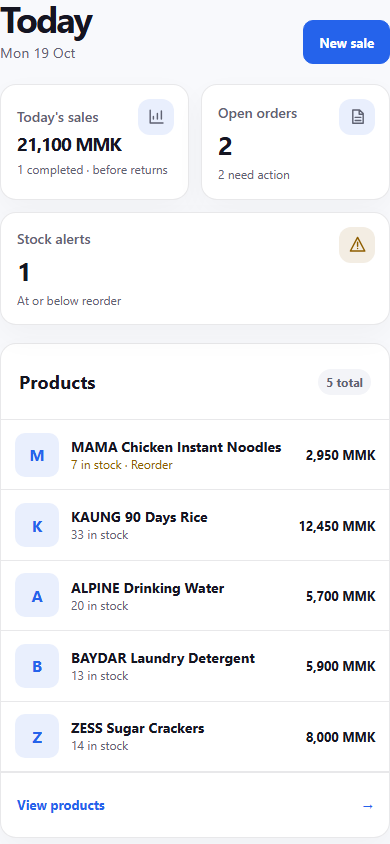
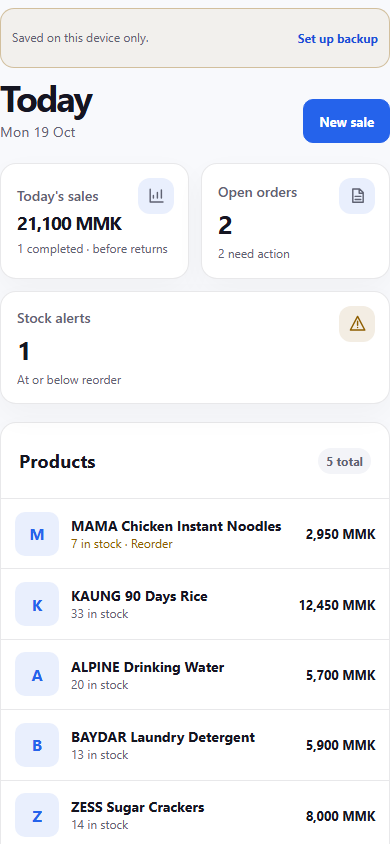
Refresh Shop gallery and launch gate evidence

diff --git a/docs/SHOP-FIRST-LAUNCH-GATE-2026-10-19.md b/docs/SHOP-FIRST-LAUNCH-GATE-2026-10-19.md
@@ -1,14 +1,14 @@
-# Shop-first launch gate — 19 October 2026 (updated 14:08 UTC)
+# Shop-first launch gate — 19 October 2026 (updated 14:29 UTC)
 
-**Decision: NO-GO.** PR #682 is open at head `197b83ebc70bc805e50f4b99e9bf365f435b15a1`. The local PR #683 candidate is `c86a26bd614e8ad5447b9f7b609973cafb43853a`, stacked on #682; it has not yet received exact-head remote CI. Local Shop/public-boundary tests, app typecheck, and the complete public-site prebuilt verification pass. Customer-managed access remains Shop-only; Sites and Commerce stay internal. Production release, customer access, and commercial activity remain separate owner gates.
+**Decision: NO-GO.** PR #682 is open at head `197b83ebc70bc805e50f4b99e9bf365f435b15a1`. The local PR #683 candidate is `6d6822138e2c409155ae174f123699bed4624b4c`, stacked on #682; this new head has not yet received exact-head remote CI. Focused Shop/public-boundary tests and app typecheck pass. The public prebuilt verifier reached its clean-worktree gate after its generated capture files changed, so a full clean-tree rerun is required before calling it a pass. Customer-managed access remains Shop-only; Sites and Commerce stay internal. Production release, customer access, and commercial activity remain separate owner gates.
 
 | Gate | Result | Current evidence |
 |---|---|---|
 | Shop-only customer scope | **PASS — local source only** | The candidate visibility manifest and its 11 product-visibility tests keep customer access limited to Shop. This does not prove hosted login or tenant isolation. |
 | Public website | **FAIL — live content is not release-ready** | A fresh 19 October read of the live [SuperMega site](https://supermega.dev/) still shows Shop, Sites, and Commerce with “illustrative records” captions. No production website update was made. |
-| Local website candidate | **PASS — local build only; not hosted** | Candidate `c86a26b` passed `npm run public:prebuilt`: 7 routes, 34 static files, 345 landing-page checks, Vercel contract tests, and the 37-step HQ verification. The generated customer homepage presents Shop only; Sites and Commerce remain internal. It is not a Vercel preview or live deployment. |
-| Product capture provenance | **PASS — source-bound candidate; not publishable** | 22 screenshots were recaptured from real product components with synthetic records and bound to showroom tree `b0308f798559a45bd16137bdc5ce3e685b0984f8`; all 22 checked-in image hashes match the capture report and provenance. The public bundle emits only the 12 Shop views across Today, Counter, Orders, and Inventory at desktop/tablet/phone sizes; the other captures remain internal review evidence. External requests denied: 0; `publicationReady=false`. |
-| Shop public-request review | **PASS — local checks; exact-head CI pending** | Public requests appear in Shop without being claimed. **Review order** explicitly claims one request. Polling omits contact details; per-order disclosure loads contact on demand for active and closed orders. Observed-request IDs and retry cursors are keyed by workspace identity. The focused suite passes 73 tests, public-boundary tests pass 14, and app typecheck passes locally. |
+| Local website candidate | **PARTIAL — generated pages passed; clean-tree verifier rerun required** | Candidate `6d68221` built all 7 routes and passed the 345 landing-page checks, gallery checks, and Vercel contract tests. `npm run public:prebuilt` then stopped because the launch gate correctly requires a clean worktree; generated capture evidence was still uncommitted. The complete command must pass after the evidence commit. This is not a Vercel preview or live deployment. |
+| Product capture provenance | **PASS — source-bound local evidence; not publishable** | 22 screenshots were recaptured from real product components with synthetic records and bound to source commit `6d6822138e2c409155ae174f123699bed4624b4c` and showroom tree `ac51cab4bfa126b29b10c03a292b2c9aa762ad30`; all capture and provenance hashes match. The public bundle emits only the 12 Shop views across Today, Counter, Orders, and Inventory at desktop/tablet/phone sizes; the other captures remain internal review evidence. External requests denied: 0; `publicationReady=false`. |
+| Shop public-request review | **PASS — local checks; exact-head CI pending** | Public requests appear in Shop without being claimed. **Review order** explicitly claims one request. Polling omits contact details; per-order disclosure loads contact on demand for active and closed orders, then hides and invalidates it when access is revoked. Observed-request IDs and retry cursors are keyed by workspace identity. The focused Shop inbox/storage suites pass 74 tests, public-boundary tests pass 14, and app typecheck passes locally. A denied persistent-storage request retains the concise backup action on Shop workspaces. |
 | Shop payment and fulfilment semantics | **PASS — local source and capture; exact-head CI pending** | Payment-due status is separate from a delivery promise. The two-line product-name clamp is represented in freshly captured desktop, tablet, and phone screens. Hardware payment settlement remains unproven. |
 | Multi-product acceptance approvals | **PASS — prior exact-head CI and local checks** | Commit `4681f10` gives each product a distinct approval ID and keeps product approvals separate from activation approval. Verifier self-test (14 checks), launch-proof tests (4/4), Shop/runtime acceptance test, and prior exact-head CI pass. No hosted acceptance write was run. |
 | Full English / Burmese experience | **FAIL — incomplete** | Fresh `node tools/audit_shop_locale_surface.mjs` reports `coverageComplete=false`, 1,168 raw English fragments (930 unique) across six Shop source files. This static inventory is not a complete rendered-language audit. |
@@ -17,13 +17,13 @@
 | Supabase security configuration | **WARN — remediation required before managed pilot** | Preview advisors report leaked-password protection disabled, two RLS-enabled billing tables with no policies (default deny), and four Sites policies with avoidable per-row setting evaluation. No Supabase settings or migrations were changed in this check. |
 | Shop barcode scanner / receipt printer | **PARTIAL — software boundary only** | The current scanner/receipt boundary suite passes 159 checks, including multiple visible labels and CODE128. No named physical scanner, printer, paper, or Myanmar-font test is bound to this candidate. |
 | Paid-VPS agents | **NOT RUN — access evidence incomplete** | Current network check reaches RDP port 3389; SSH port 22 is closed. No authenticated VPS desktop, worker installation, heartbeat, or isolated job completion was verified. The local company coordinator reports `localOnly=true`, zero running/queued work, and is not VPS evidence. Local Ollama/inference is not used as a hosted-readiness substitute. |
-| Exact-head CI and security | **PENDING on local candidate `c86a26bd`** | App CI run `39263744320` on prior head `a19775b9` was cancelled after review found stale gallery provenance. Its independent dependency/security and Kernel Console checks passed only on `a19775b9` and are not reused. Run the full workflow on `c86a26bd` after push. |
-| Independent review | **BLOCKED** | Automated review of `a19775b9` found stale gallery source/hash metadata; the local candidate refreshes all 22 captures and metadata. The workspace-switch and closed-order contact findings are also represented in current source. Trigger/review on `c86a26bd`; the repository has no eligible reviewer apart from the PR author, so automated review cannot satisfy GitHub's independent-review rule. |
+| Exact-head CI and security | **PENDING on local candidate `6d682213`** | Prior `c506513d` checks passed, but they do not apply to this source change or capture refresh. Push the completed clean candidate and run the full workflow on its exact head. |
+| Independent review | **BLOCKED pending exact-head re-review and eligible reviewer** | Earlier review found stale gallery hashes and a buyer-contact revocation issue; both are corrected in the local candidate with current source-bound captures. Rerun automated review after push. The repository still has no eligible reviewer apart from the PR author, so automated review cannot satisfy GitHub's independent-review rule. |
 | Production release | **NOT RUN — separate owner gate** | No production migration, deployment, domain update, customer action, or commercial claim was made. |
 
 ## Next actions
 
-1. Push `c86a26bd` with the updated launch record, run exact-head App CI and automated review, then address new findings; obtain an eligible independent reviewer for stacked PRs #682/#683.
+1. Commit the recaptured gallery and updated launch record, rerun `npm run public:prebuilt` from a clean tree, then push and run exact-head App CI and automated review; obtain an eligible independent reviewer for stacked PRs #682/#683.
 2. Resolve the Supabase preview migration failure from provider diagnostics, then run a real two-user cross-tenant, sign-in, save/reload, and recovery test.
 3. Complete Burmese-only coverage and rendered-copy review, then run the named scanner/printer/device and paid-VPS worker acceptance tests.
 4. Create and verify a Git-backed Vercel preview for the exact candidate; the live website still shows all three products and “illustrative records.” Keep production promotion separate.

diff --git a/supergoal.md b/supergoal.md
@@ -1038,8 +1038,8 @@ Historical transport errors do not supersede the later verified host correction 
 
 ### 2026-10-19 — Shop inbox review defects fixed on PR #683
 
-- **SOURCE FIX:** on exact head `a19775b93765719fab788d01c4769ffd641e3a0b`, inbox retry cursors and observed-request sets now live in a state map keyed by workspace identity. Concurrent A/B inbox sweeps can no longer share pruning state; the prior account-switch effect no longer clears another identity's cursor.
-- **CONTACT FIX:** contact details still load only on explicit disclosure, with local state per order. The same component is present in active orders and completed/cancelled history, so open order panels no longer overwrite one another and linked contacts remain available during later support/return work.
-- **LOCAL VERIFICATION:** `node --test tools/shop_public_inbox_sync.test.mjs tools/storage_durability.test.mjs` passed 73; `python -m unittest tests.test_commerce_public_storefront.CommercePublicBoundaryTests` passed 14; `npm run app:typecheck` passed both app TypeScript projects; `git diff --check` passed.
-- **REMOTE REVIEW:** exact-head push App CI run `39263744320`, dependency audit `39263752323`, Kernel Console `39263752356`, and Codex Code/Security reviews were pending at 13:52 UTC. No prior-head result is counted for `a19775b9`.
-- **RELEASE LIMIT:** PR #683 is stacked on open #682. The live website still advertises Sites and Commerce and illustrative images. Supabase preview state, hosted sign-in/tenant isolation, Burmese completeness, named hardware, VPS agent acceptance and independent GitHub approval remain unresolved. Decision stays **NO-GO**; production is untouched.
+- **SOURCE FIXES:** inbox cursors and observed-request sets are isolated by workspace identity. Buyer contact remains explicit and per-order; when write access is revoked, the UI now hides the contact immediately and invalidates in-flight loads so a late response cannot restore it. When browser persistent storage is denied, Shop surfaces retain a concise backup action; the detailed headroom meter stays in Settings.
+- **REAL-COMPONENT CAPTURES:** all 22 synthetic product screenshots were recaptured from the exact source commit `6d6822138e2c409155ae174f123699bed4624b4c`, showroom tree `ac51cab4bfa126b29b10c03a292b2c9aa762ad30`. The public bundle includes only 12 Shop views; all 22 capture and provenance hashes match. These are local review captures and are not hosted/customer evidence.
+- **LOCAL VERIFICATION:** focused tests passed (74 combined across Shop inbox and storage durability; 14 public Commerce boundary tests); both app TypeScript projects passed; `git diff --check` passed. `npm run public:prebuilt` built all seven routes and passed landing/gallery checks, then stopped at the clean-worktree release gate because the new captures had not yet been committed. This interrupted run is not reported as a complete pass; rerun after committing the candidate.
+- **REMOTE REVIEW:** PR #683 remains stacked on open #682. The prior head `c506513d` had passing App CI, security, dependency and Kernel Console checks, but those results do not apply to `6d6822138` or the final evidence commit. Push and rerun exact-head checks/reviews after local prebuilt verification.
+- **RELEASE LIMIT:** live website freshness, managed preview, hosted sign-in and tenant isolation, full Burmese completeness, named hardware, paid-VPS agent acceptance and eligible independent GitHub approval remain unresolved. Decision stays **NO-GO**; production is untouched.
